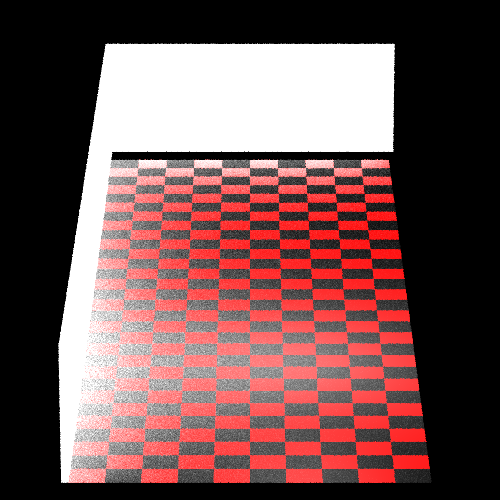
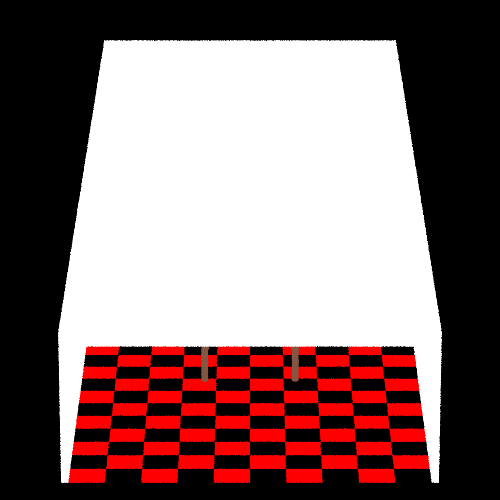
wall + tile component

diff --git a/unitTests/renderer/ImprovementTest.java b/unitTests/renderer/ImprovementTest.java
@@ -78,10 +78,10 @@ private Geometry backBone= new Polygon(new Point(-1000,1000,-9000),
     public void table() {
         Color tableColor = new Color(new java.awt.Color(119, 79, 61));
         Material tableMaterial = new Material().setKd(0.7).setKs(0.7).setnShininess(20).setKt(0.1);
-        Table table1 = new Table(80d, 80d, new Point(0, 0, -200), tableColor, tableMaterial);
+        Table table1 = new Table(100d, 80d, new Point(0, 0, -200), tableColor, tableMaterial);
 //        //Table table2 = new Table(80d,80d,new Point(200, 0, -200) , tableColor, tableMaterial );
         //Table table3 = new Table(80d,80d,new Point(-200, 0, -200) , tableColor, tableMaterial );
-        //scene1._geometries.addAll(table1._parts);
+        scene1._geometries.addAll(table1._parts);
         /*scene1._geometries.addAll(table2._parts);
         scene1._geometries.addAll(table3._parts);
         Table table4 = new Table(80d,80d,new Point(0, 0, -400) , tableColor, tableMaterial );
@@ -96,12 +96,30 @@ private Geometry backBone= new Polygon(new Point(-1000,1000,-9000),
         scene1._geometries.addAll(table7._parts);
         scene1._geometries.addAll(table8._parts);
         scene1._geometries.addAll(table9._parts);
-        *//*
+        */
+
         scene1._geometries.add(
-                new Sphere(new Point(0, 20, -200), 10).setEmission(new Color(BLUE)) //
-                        .setMaterial(new Material().setKd(0.5).setKs(0.5).setnShininess(20).setKt(0.7)),
-                new Sphere(new Point(0, 20, -200), 5).setEmission(new Color(BLUE)) //
-                        .setMaterial(new Material().setKd(0.5).setKs(0.5).setnShininess(20).setKt(0.1)));*//*,
+                new Sphere(new Point(-80, 150, -200), 15).setEmission(new Color(new java.awt.Color(248, 255, 175))) //
+                        .setMaterial(new Material().setKd(0.5).setKs(0.5).setnShininess(20).setKt(0.8).setKg(1)),
+                new Sphere(new Point(0, 150, -200), 15).setEmission(new Color(new java.awt.Color(248, 255, 175))) //
+                        .setMaterial(new Material().setKd(0.5).setKs(0.5).setnShininess(20).setKt(0.8).setKg(1)),
+                new Sphere(new Point(80, 150, -200), 15).setEmission(new Color(new java.awt.Color(248, 255, 175))) //
+                        .setMaterial(new Material().setKd(0.5).setKs(0.5).setnShininess(20).setKt(0.8).setKg(1)),
+                new Cylinder(new Ray(new Point(-80,165,-200), new Vector(0,1,0)),1d, 50)
+                        .setEmission(new Color(new java.awt.Color(248, 255, 175))) //
+                        .setMaterial(new Material().setKd(0.5).setKs(0.5).setnShininess(20).setKt(0.8).setKg(1)),
+                new Cylinder(new Ray(new Point(0,165,-200), new Vector(0,1,0)),1d, 50)
+                        .setEmission(new Color(new java.awt.Color(248, 255, 175))) //
+                        .setMaterial(new Material().setKd(0.5).setKs(0.5).setnShininess(20).setKt(0.8).setKg(1)),
+                new Cylinder(new Ray(new Point(80,165,-200), new Vector(0,1,0)),1d, 50)
+                        .setEmission(new Color(new java.awt.Color(248, 255, 175))) //
+                        .setMaterial(new Material().setKd(0.5).setKs(0.5).setnShininess(20).setKt(0.8).setKg(1)),
+                new Cylinder(new Ray(new Point(-80,215,-200), new Vector(1,0,0)),3d, 160)
+                        .setEmission(new Color(new java.awt.Color(248, 255, 175))) //
+                        .setMaterial(new Material().setKd(0.5).setKs(0.5).setnShininess(20).setKt(0.8).setKg(1))
+
+        );
+        /*,
                 new Cylinder(new Ray(new Point(0,10,-145), new Vector(0,1,0)), 15d , 1d).setEmission(new Color(GRAY)) //
                         .setMaterial(new Material().setKd(0.5).setKs(0.5).setnShininess(20).setKt(0.3)),
                 new Cylinder(new Ray(new Point(20,10,-165), new Vector(0,1,0)), 3d , 10d).setEmission(new Color(GRAY)) //
@@ -120,24 +138,38 @@ new Polygon(new Point(-19.5,10.01,-160),new Point(-19.5,10.01,-145),new Point(-2
                         .setMaterial(new Material().setKd(0.5).setKs(0.5).setnShininess(20).setKt(0.01)) );
 */
 
+        // left
         Point w1 = new Point(-260, -80, 260);
-        Point w2 = new Point(-260, -80, -1300);
-        Point w3 = new Point(-250, -80, -1300);
+        Point w2 = new Point(-260, -80, -1250);
+        Point w3 = new Point(-250, -80, -1250);
         Point w4 = new Point(-250, -80, 260);
         scene1._geometries.addAll(new Wall(w1,w2,w3,w4, 200, new Color(WHITE),new Material().setKd(0.5).setKs(0.5))._parts);
 
-
-        Point w11 = new Point(260, -80, -1300);
-        Point w22 = new Point(-260, -80, -1300);
-        Point w33 = new Point(-260, -80, -1290);
-        Point w44 = new Point(260, -80, -1290);
+        //back
+        Point w11 = new Point(260, -80, -1250);
+        Point w22 = new Point(-260, -80, -1250);
+        Point w33 = new Point(-260, -80, -1240);
+        Point w44 = new Point(260, -80, -1240);
         scene1._geometries.addAll(new Wall(w11,w22,w33,w44, 200, new Color(WHITE),new Material().setKd(0.5).setKs(0.5))._parts);
 
+        //right
+        Point w111 = new Point(260, -80, 260);
+        Point w222 = new Point(260, -80, -1250);
+        Point w333 = new Point(250, -80, -1250);
+        Point w444 = new Point(250, -80, 260);
+        scene1._geometries.addAll(new Wall(w111,w222,w333,w444, 200, new Color(WHITE),new Material().setKd(0.5).setKs(0.5))._parts);
+
+        //up
+        Point w1111 = new Point(260, 120, -1250);
+        Point w2222 = new Point(-260, 120, -1250);
+        Point w3333 = new Point(-260, 120, 260);
+        Point w4444 = new Point(260, 120, 260);
+        scene1._geometries.addAll(new Wall(w1111,w2222,w3333,w4444, 20, new Color(WHITE),new Material().setKd(0.5).setKs(0.5))._parts);
 
 
         Point leftBack = new Point(-300, -80, 260);
-        Material redMaterial = new Material().setnShininess(30).setKd(0.5).setKs(0.5).setKr(0.8).setKg(0.5);
-        Material blackMaterial = new Material().setnShininess(30).setKd(0.5).setKs(0.5).setKr(0.8).setKg(0.01);
+        Material redMaterial = new Material().setnShininess(30).setKd(0.5).setKs(0.5);
+        Material blackMaterial = new Material().setnShininess(30).setKd(0.5).setKs(0.5);
 
         for (int i = 1; i < 31; i++) {
             leftBack = leftBack.add(new Vector(0, 0, -50));
@@ -151,7 +183,6 @@ new Polygon(new Point(-19.5,10.01,-160),new Point(-19.5,10.01,-145),new Point(-2
                 scene1._geometries.add(tile._pol);
             }
         }
-
 
             /*
             scene1._geometries.add( new Polygon(new Point(-160,-80,260),new Point(-160,-80,200-500),new Point(-160,300,200-500),new Point(-160,300,260))
@@ -173,8 +204,11 @@ new Polygon(new Point(-19.5,10.01,-160),new Point(-19.5,10.01,-145),new Point(-2
 
         }
 */
-            scene1._lights.add(new SpotLight(new Color(WHITE), new Point(100, 200, -200), new Vector(-0.5, -1, 0)));
-            scene1._lights.add(new SpotLight(new Color(WHITE), new Point(-400, -400, 0), new Vector(0.2d, 0.5d, -1)));
+            scene1._lights.add(new SpotLight(new Color(WHITE), new Point(-80, 150, -200), new Vector(-1, -1, 0)));
+            scene1._lights.add(new SpotLight(new Color(WHITE), new Point(0, 150, -200), new Vector(0, -1, 0)));
+            scene1._lights.add(new SpotLight(new Color(WHITE), new Point(80, 150, -200), new Vector(1, -1, 0)));
+
+            //scene1._lights.add(new SpotLight(new Color(WHITE), new Point(-400, -400, 0), new Vector(0.2d, 0.5d, -1)));
             //scene1.lights.add(new DirectionalLight(new Color(GREEN), new Vector(1,1,1)));
             //scene1.lights.add(_directionalLight);
             //scene1.lights.add(_directionalLight1);
